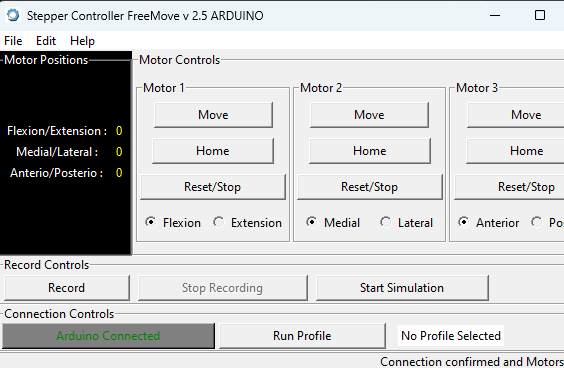
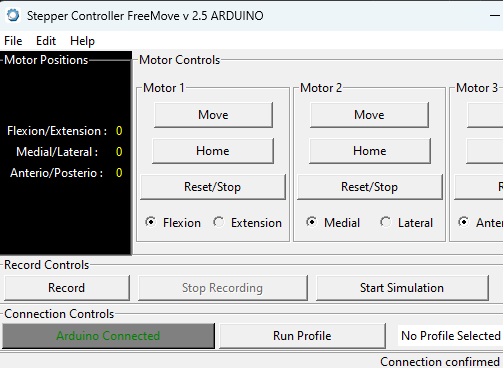
update pic4 and colors

diff --git a/src/App.css b/src/App.css
@@ -15,11 +15,11 @@
 }
 
 .dark {
-  --clr-bg: #23283e;
-  --clr-bg-alt: #2a2f4c;
-  --clr-fg: #bdbddd;
-  --clr-fg-alt: #cdcdff;
-  --clr-primary: #90a0d9;
+  --clr-bg: #24292e;
+  --clr-bg-alt: rgba(56, 58, 61, 0.35);
+  --clr-fg: #89a4bb;
+  --clr-fg-alt: #efefef;
+  --clr-primary: #f9826c;
   --shadow: rgba(0, 0, 0, 0.16) 0px 10px 36px 0px,
     rgba(0, 0, 0, 0.06) 0px 0px 0px 1px;
 }
